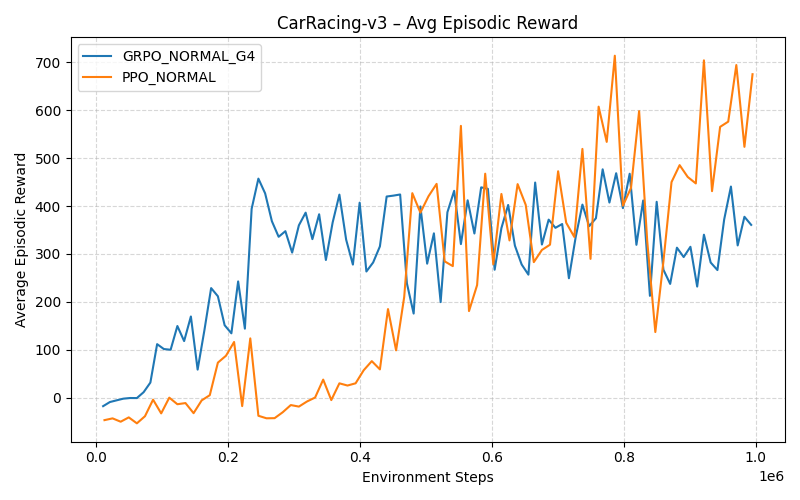
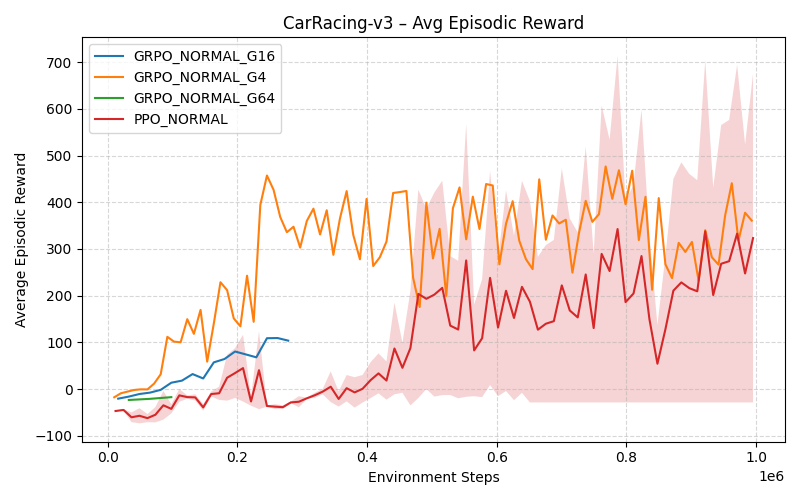
scripts updated

diff --git a/generate_videos.py b/generate_videos.py
@@ -1,0 +1,97 @@
+#!/usr/bin/env python3
+import argparse
+import json
+from pathlib import Path
+
+import torch
+import imageio
+import numpy as np
+
+from algorithms.base_agent import BaseAgent
+from algorithms.ppo import PPO
+from algorithms.grpo import GRPO_NoCritic
+from utils import env_utils, torch_utils
+from utils.pydantic_models import ExperimentConfig
+
+# Algo registry must match what you used during training:
+ALGO_REGISTRY = {
+    "ppo": PPO,
+    "grpo": GRPO_NoCritic,
+}
+
+def load_experiment_config(config_path: Path) -> ExperimentConfig:
+    with open(config_path, 'r') as f:
+        cfg = json.load(f)
+    cfg['_config_file_path'] = str(config_path.resolve())
+    return ExperimentConfig(**cfg)
+
+def rollout_episode(env, agent, max_steps: int):
+    """Returns list of RGB frames for one episode rollout."""
+    obs = env.reset()
+    frames = []
+    for _ in range(max_steps):
+        # render before action so you see initial state
+        frame = env.render(mode='rgb_array')
+        frames.append(frame)
+        with torch.no_grad():
+            action = agent.get_action(obs)  # or agent.act(obs), depending on your API
+        obs, reward, done, _ = env.step(action)
+        if done:
+            # capture final frame
+            frames.append(env.render(mode='rgb_array'))
+            break
+    return frames
+
+def main():
+    p = argparse.ArgumentParser("Load saved actors and generate one‐episode videos")
+    p.add_argument("--base-log-dir", "-ld", type=Path, default=Path("finalLogs"),
+                   help="Top‐level folder containing all your runs")
+    p.add_argument("--device", "-d", type=str, default=None,
+                   help="torch device (cpu or cuda). Auto‐detect if not set.")
+    args = p.parse_args()
+
+    device = torch_utils.get_device(args.device)
+    base = args.base_log_dir.expanduser()
+    if not base.is_dir():
+        print(f"[error] base‐log‐dir not found: {base}")
+        return
+
+    videos_dir = base / "videos"
+    videos_dir.mkdir(exist_ok=True)
+
+    # find every subfolder that has checkpoints/actor.pt
+    for run_dir in base.iterdir():
+        ckpt = run_dir / "checkpoints" / "actor.pt"
+        cfg_file = run_dir / "config.json"
+        if not ckpt.exists() or not cfg_file.exists():
+            continue
+
+        print(f"→ Generating video for run {run_dir.name}")
+        # 1) load config
+        config = load_experiment_config(cfg_file)
+
+        # 2) build env
+        env = env_utils.make_env(
+            env_id=config.env_id,
+            seed=config.seed,
+            max_episode_steps=config.max_episode_steps
+        )
+
+        # 3) instantiate agent and load weights
+        AlgoClass = ALGO_REGISTRY[config.algo.lower()]
+        agent = AlgoClass(env=env, config=config, device_str=device)
+        # assume your agent has a load() or similar:
+        agent.load_checkpoint(str(ckpt))  
+
+        # 4) rollout
+        frames = rollout_episode(env, agent, config.max_episode_steps)
+
+        # 5) save .mp4
+        out_path = videos_dir / f"{run_dir.name}.mp4"
+        imageio.mimsave(str(out_path), frames, fps=30)
+        print(f"  → saved to {out_path}")
+
+        env.close()
+
+if __name__ == "__main__":
+    main()

diff --git a/scripts/plot_rewards_all_envs.py b/scripts/plot_rewards_all_envs.py
@@ -37,7 +37,7 @@ FOLDER_RE = re.compile(
     r"$"
 )
 
-MIN_STEPS = 900_000
+MIN_STEPS = 90000
 
 os.makedirs(OUTPUT_DIR, exist_ok=True)
 
